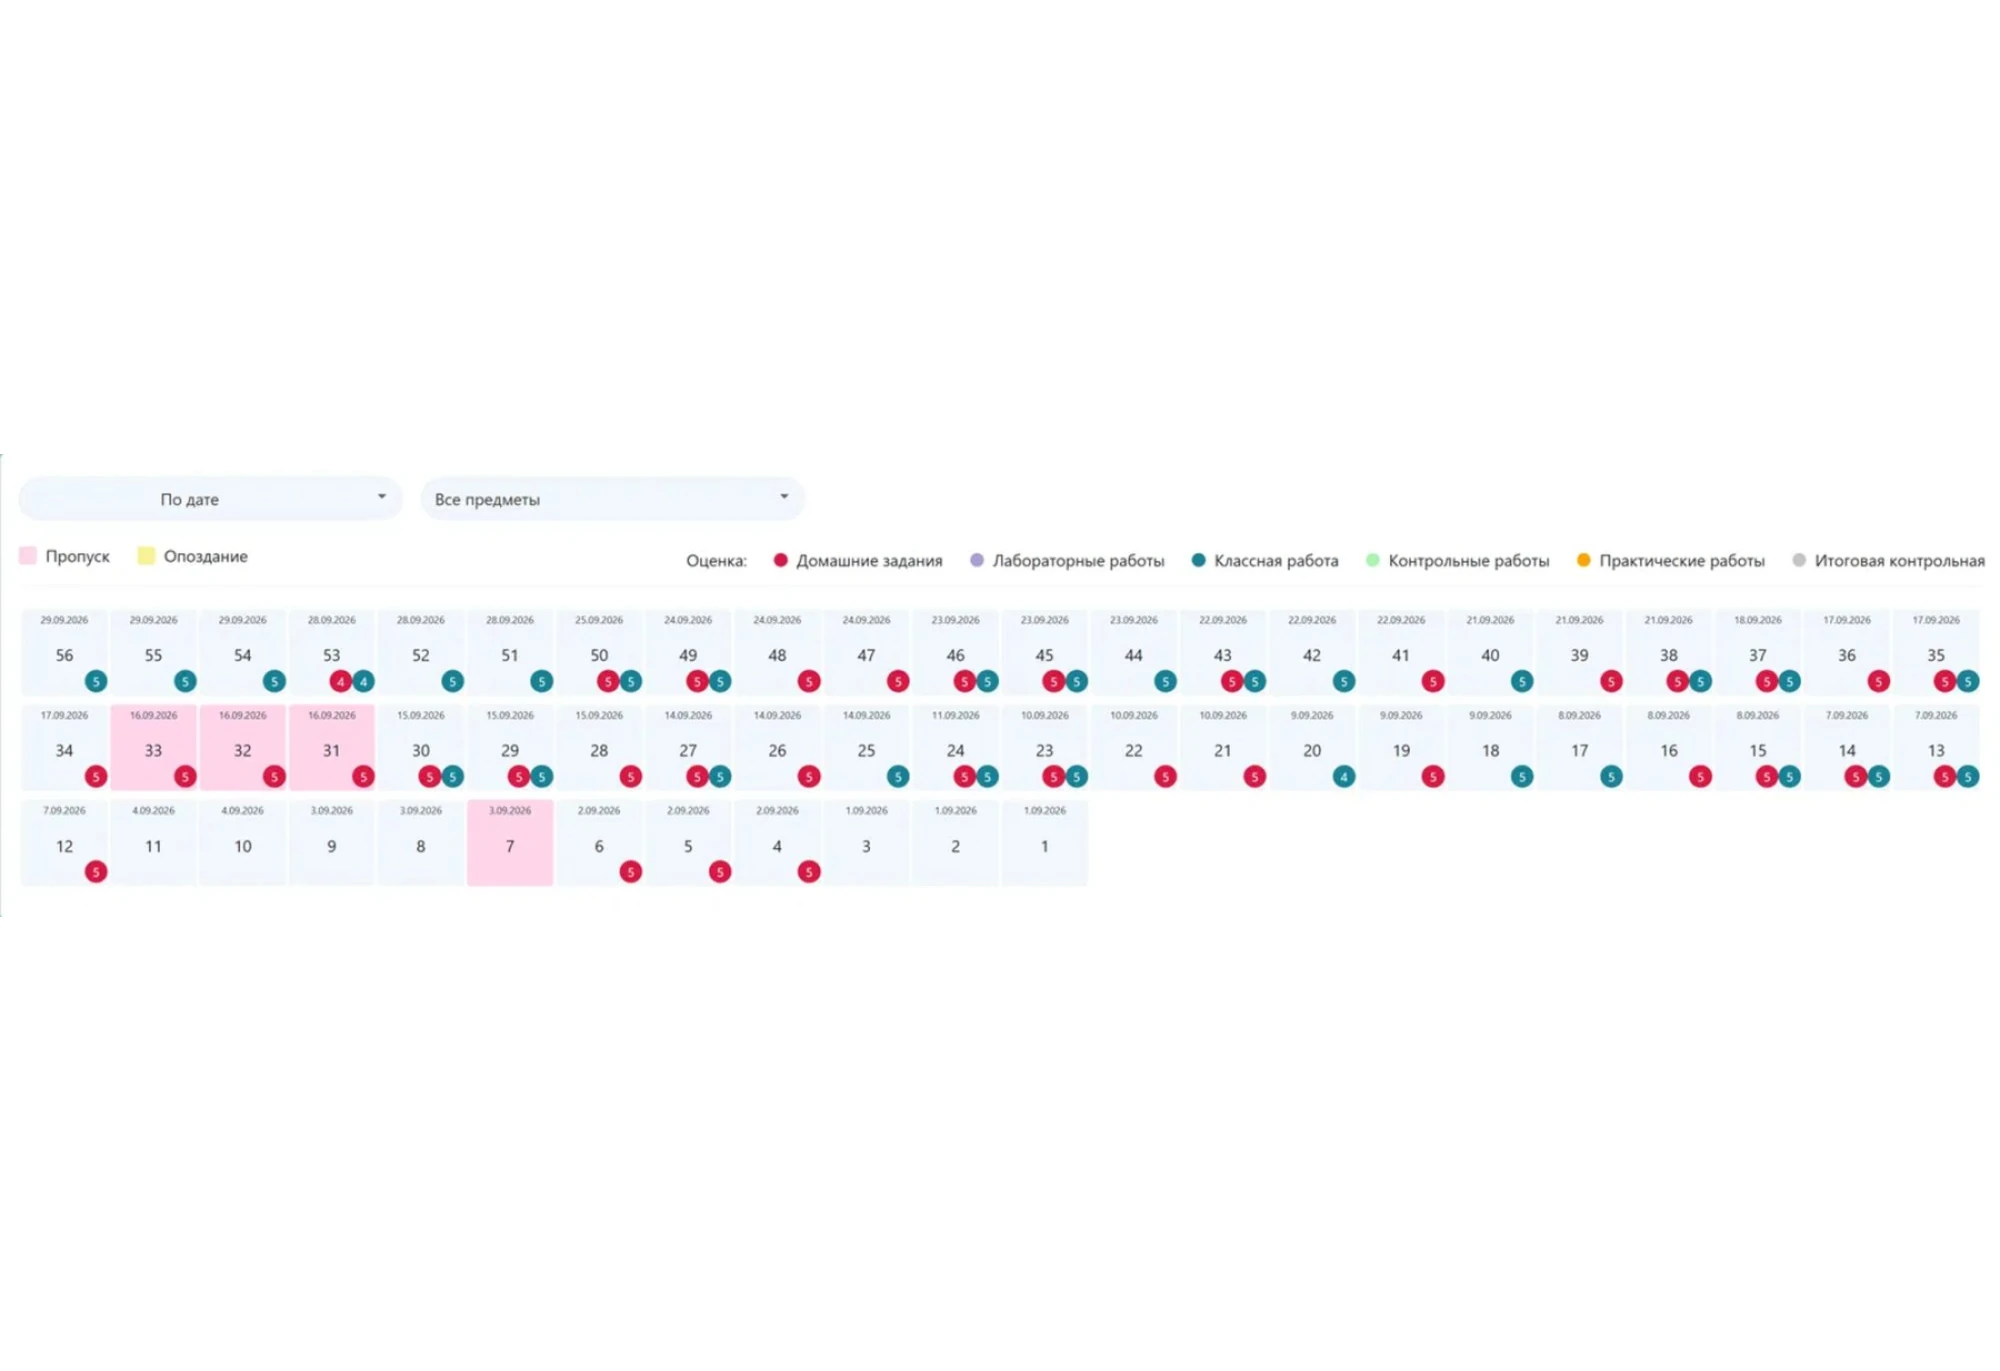
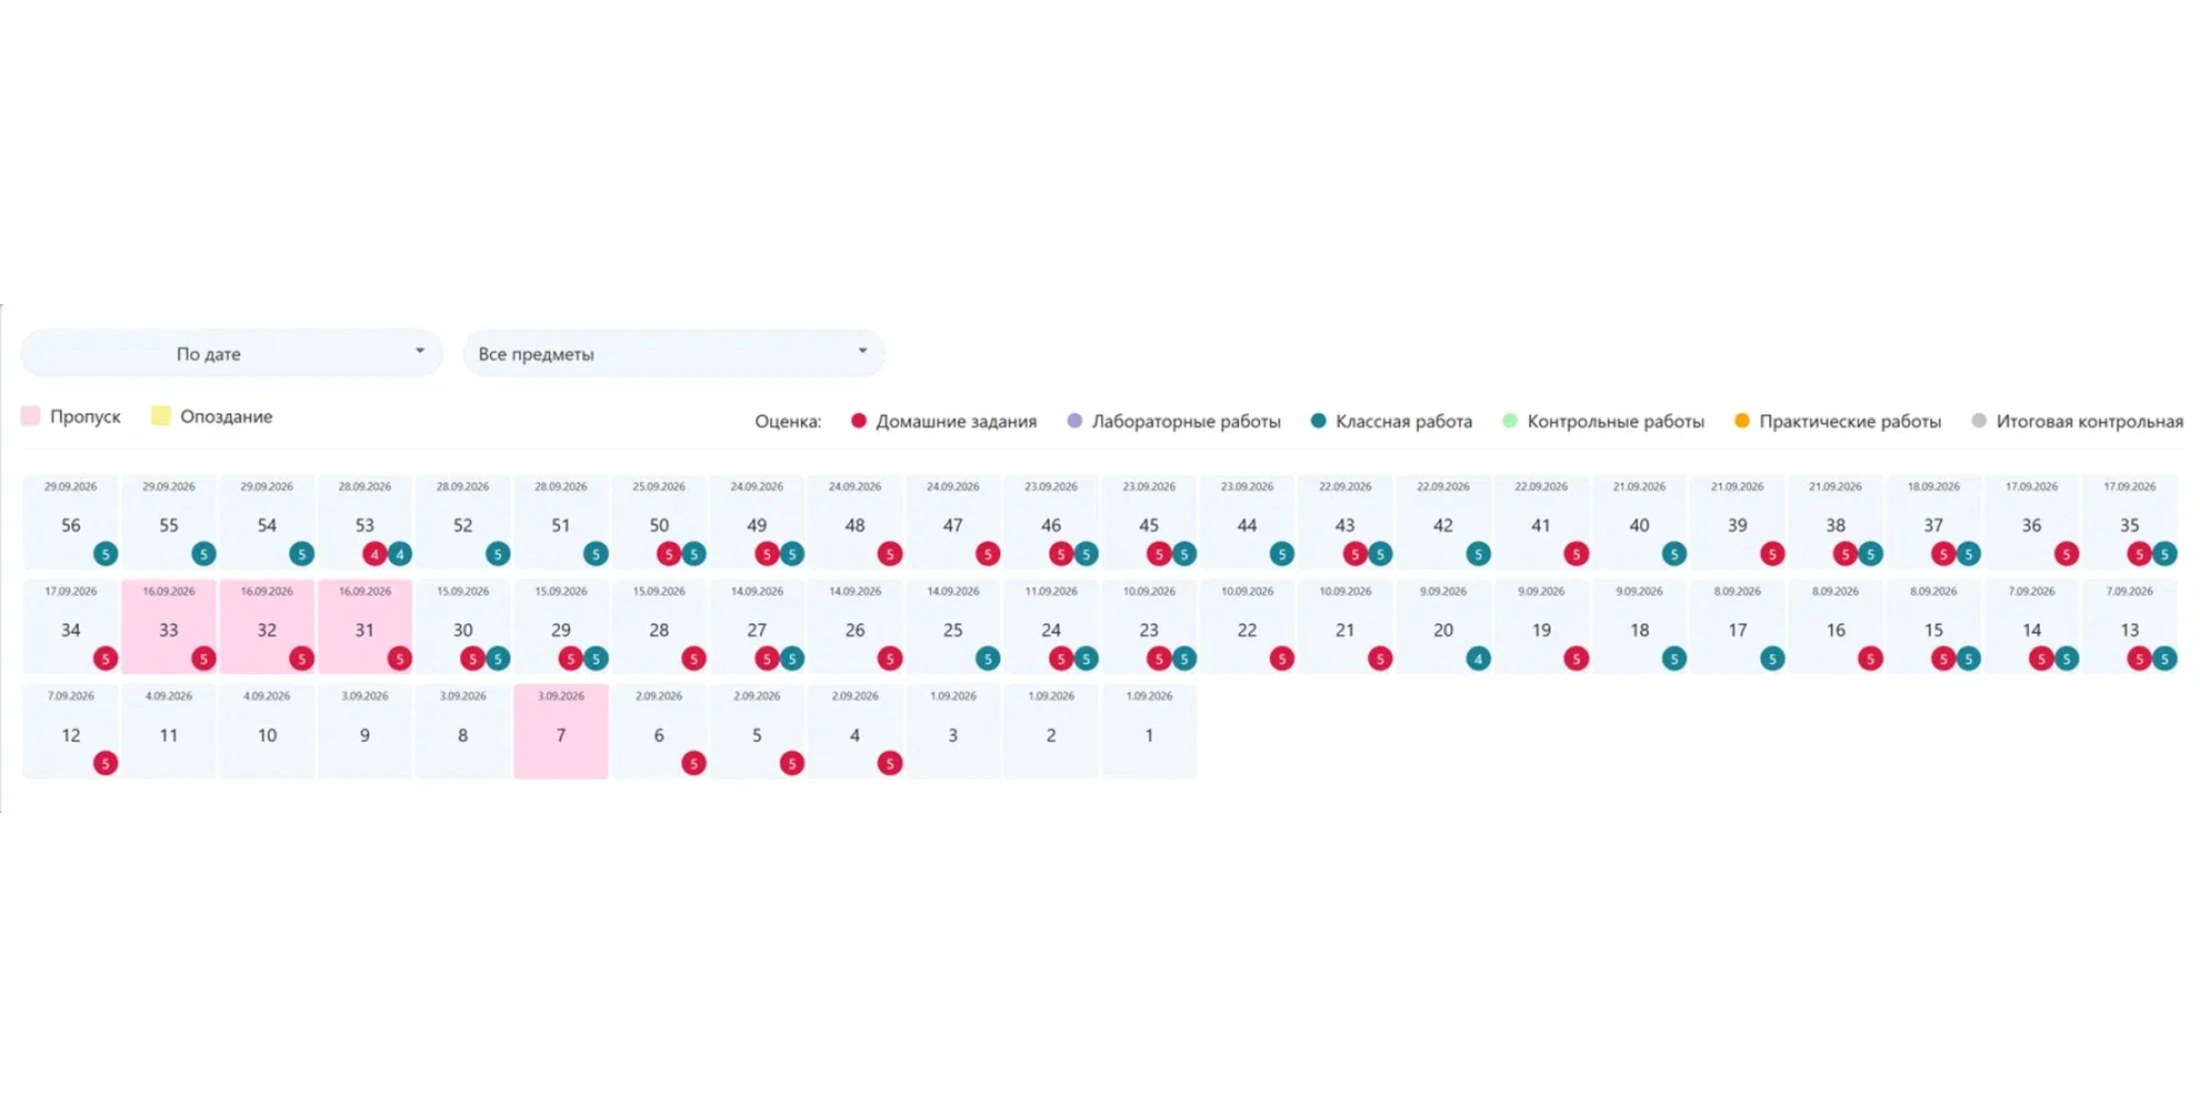
Add files via upload

diff --git a/index.html b/index.html
@@ -155,7 +155,7 @@ figcaption{padding:10px 4px 0;font-size:13px;color:var(--soft)}
 .ba-it .tg{position:absolute;top:-12px;left:18px;z-index:2;padding:5px 13px;border-radius:999px;font:700 11px var(--fb);letter-spacing:.14em;text-transform:uppercase;background:#1b1b1b;border:1.5px solid var(--line);color:var(--ink)}
 .ba-it .tg.r{background:var(--acc);border-color:var(--acc);color:#151008}
 .ba-ar{width:38px;height:38px;border-radius:50%;display:grid;place-items:center;color:var(--acc);border:1.5px solid rgba(var(--acc-rgb),.45);background:rgba(var(--acc-rgb),.08)}.ba-ar svg{width:18px;height:18px}
-.cmp{position:relative;border-radius:var(--r-md);overflow:hidden;border:1.5px solid var(--line);aspect-ratio:2000/1371;background:#0a0a0a;touch-action:pan-y;user-select:none;-webkit-user-select:none}
+.cmp{position:relative;border-radius:var(--r-md);overflow:hidden;border:1.5px solid var(--line);aspect-ratio:2200/1117;background:#0a0a0a;touch-action:pan-y;user-select:none;-webkit-user-select:none}
 .cmp img{position:absolute;inset:0;width:100%;height:100%;object-fit:contain;object-position:center}
 
 .cmp .a{clip-path:inset(0 calc(100% - var(--x,50%)) 0 0)}
@@ -463,10 +463,10 @@ dialog.lbx button{position:sticky;top:10px;float:right;margin:10px;z-index:2;wid
 </section>
 
 <section class="wrap" id="ba">
-  <div class="sh c reveal"><span class="eb">До и после</span><h2>Те же оценки, другой журнал</h2><p class="lead">Слева - сентябрь в официальном журнале, справа - тот же сентябрь во “Всех парах” Дневника: по неделям и дням, с предметом, номером пары и оценками. Потяни ползунок.</p></div>
+  <div class="sh c reveal"><span class="eb">До и после</span><h2>Те же оценки, другой журнал</h2><p class="lead">Слева - оценки в официальном журнале, справа - те же пары во “Всех парах” Дневника: по дням, с предметом, номером пары и оценками. Потяни ползунок.</p></div>
   <div class="cmp reveal" id="cmp" style="--x:50%">
-    <img class="d" src="ba-dn.webp" width="2000" height="1371" alt="Все пары за сентябрь в Дневнике">
-    <img class="a" src="ba-off.webp" width="2000" height="1371" alt="Оценки за сентябрь в официальном журнале">
+    <img class="d" src="ba-dn.webp" width="2200" height="1117" alt="Все пары за сентябрь в Дневнике">
+    <img class="a" src="ba-off.webp" width="2200" height="1117" alt="Оценки за сентябрь в официальном журнале">
     <span class="tg l">Журнал</span><span class="tg r">Дневник</span>
     <span class="ln"></span><span class="knob"><svg width="22" height="22" viewBox="0 0 24 24" fill="none" stroke="currentColor" stroke-width="2.4" stroke-linecap="round" stroke-linejoin="round"><path d="M9 6l-6 6 6 6M15 6l6 6-6 6"/></svg></span>
     <input type="range" id="cmpr" min="0" max="100" value="50" aria-label="Сравнение: журнал и Дневник">
